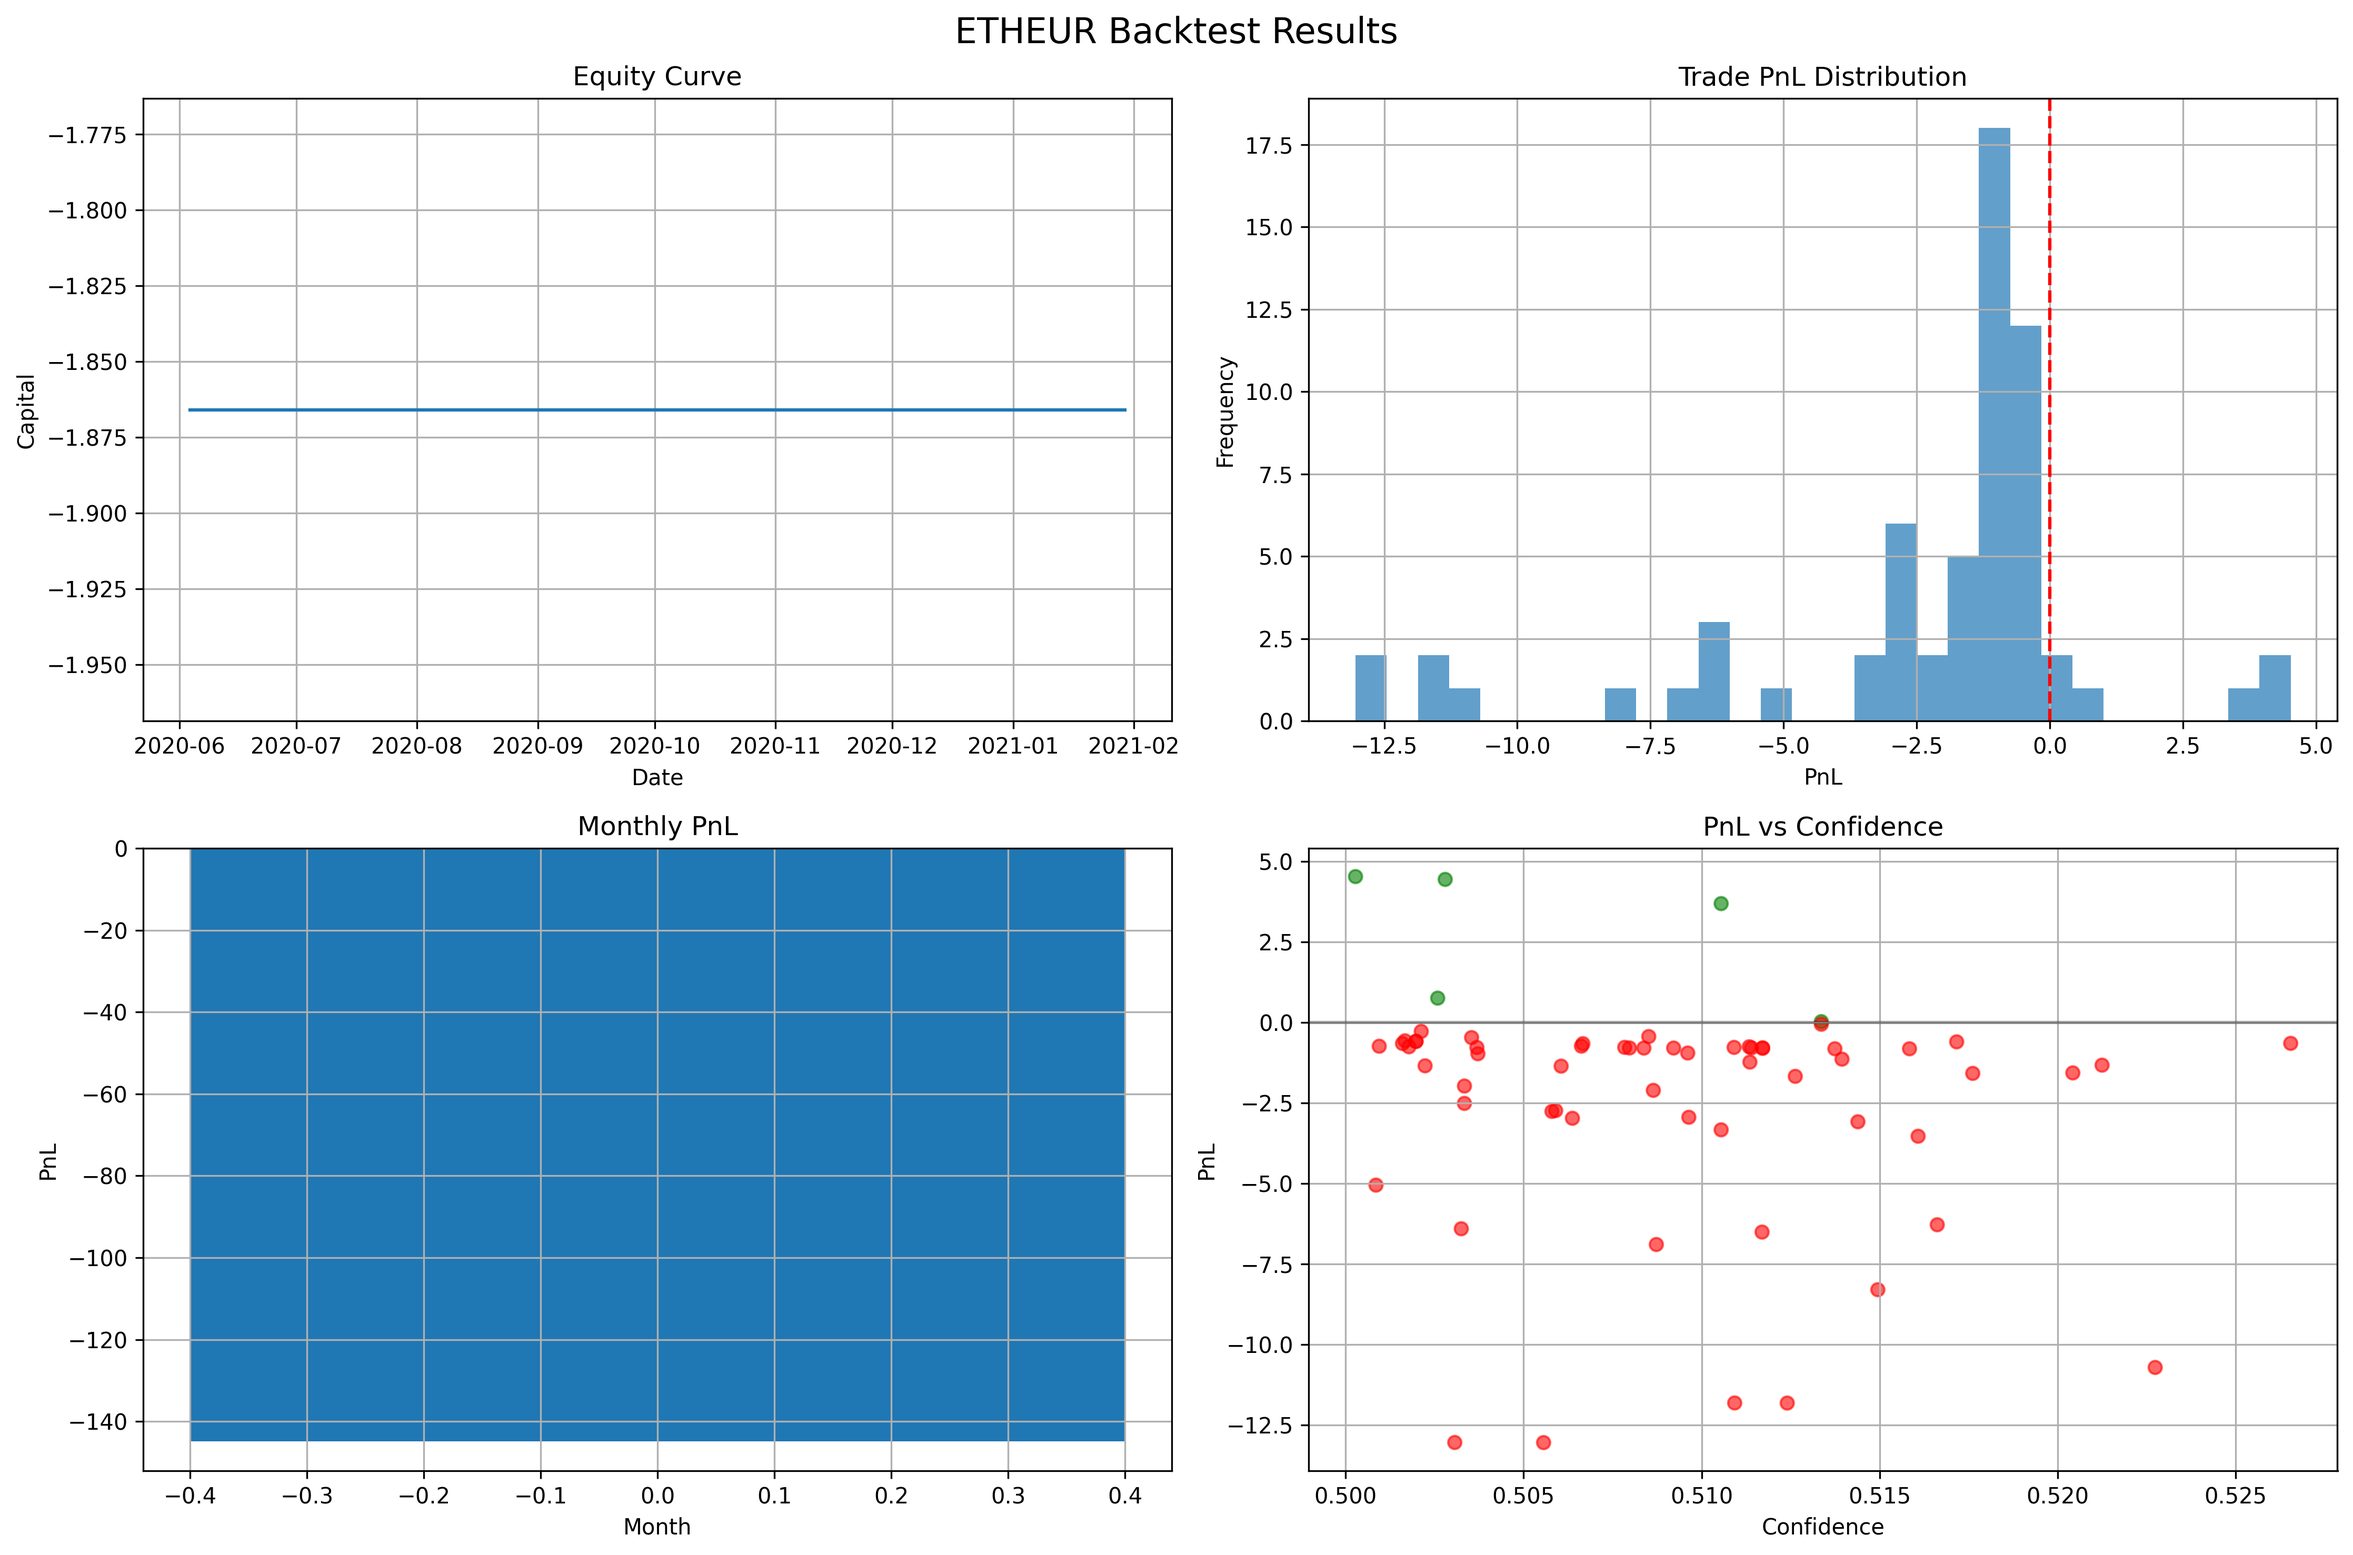
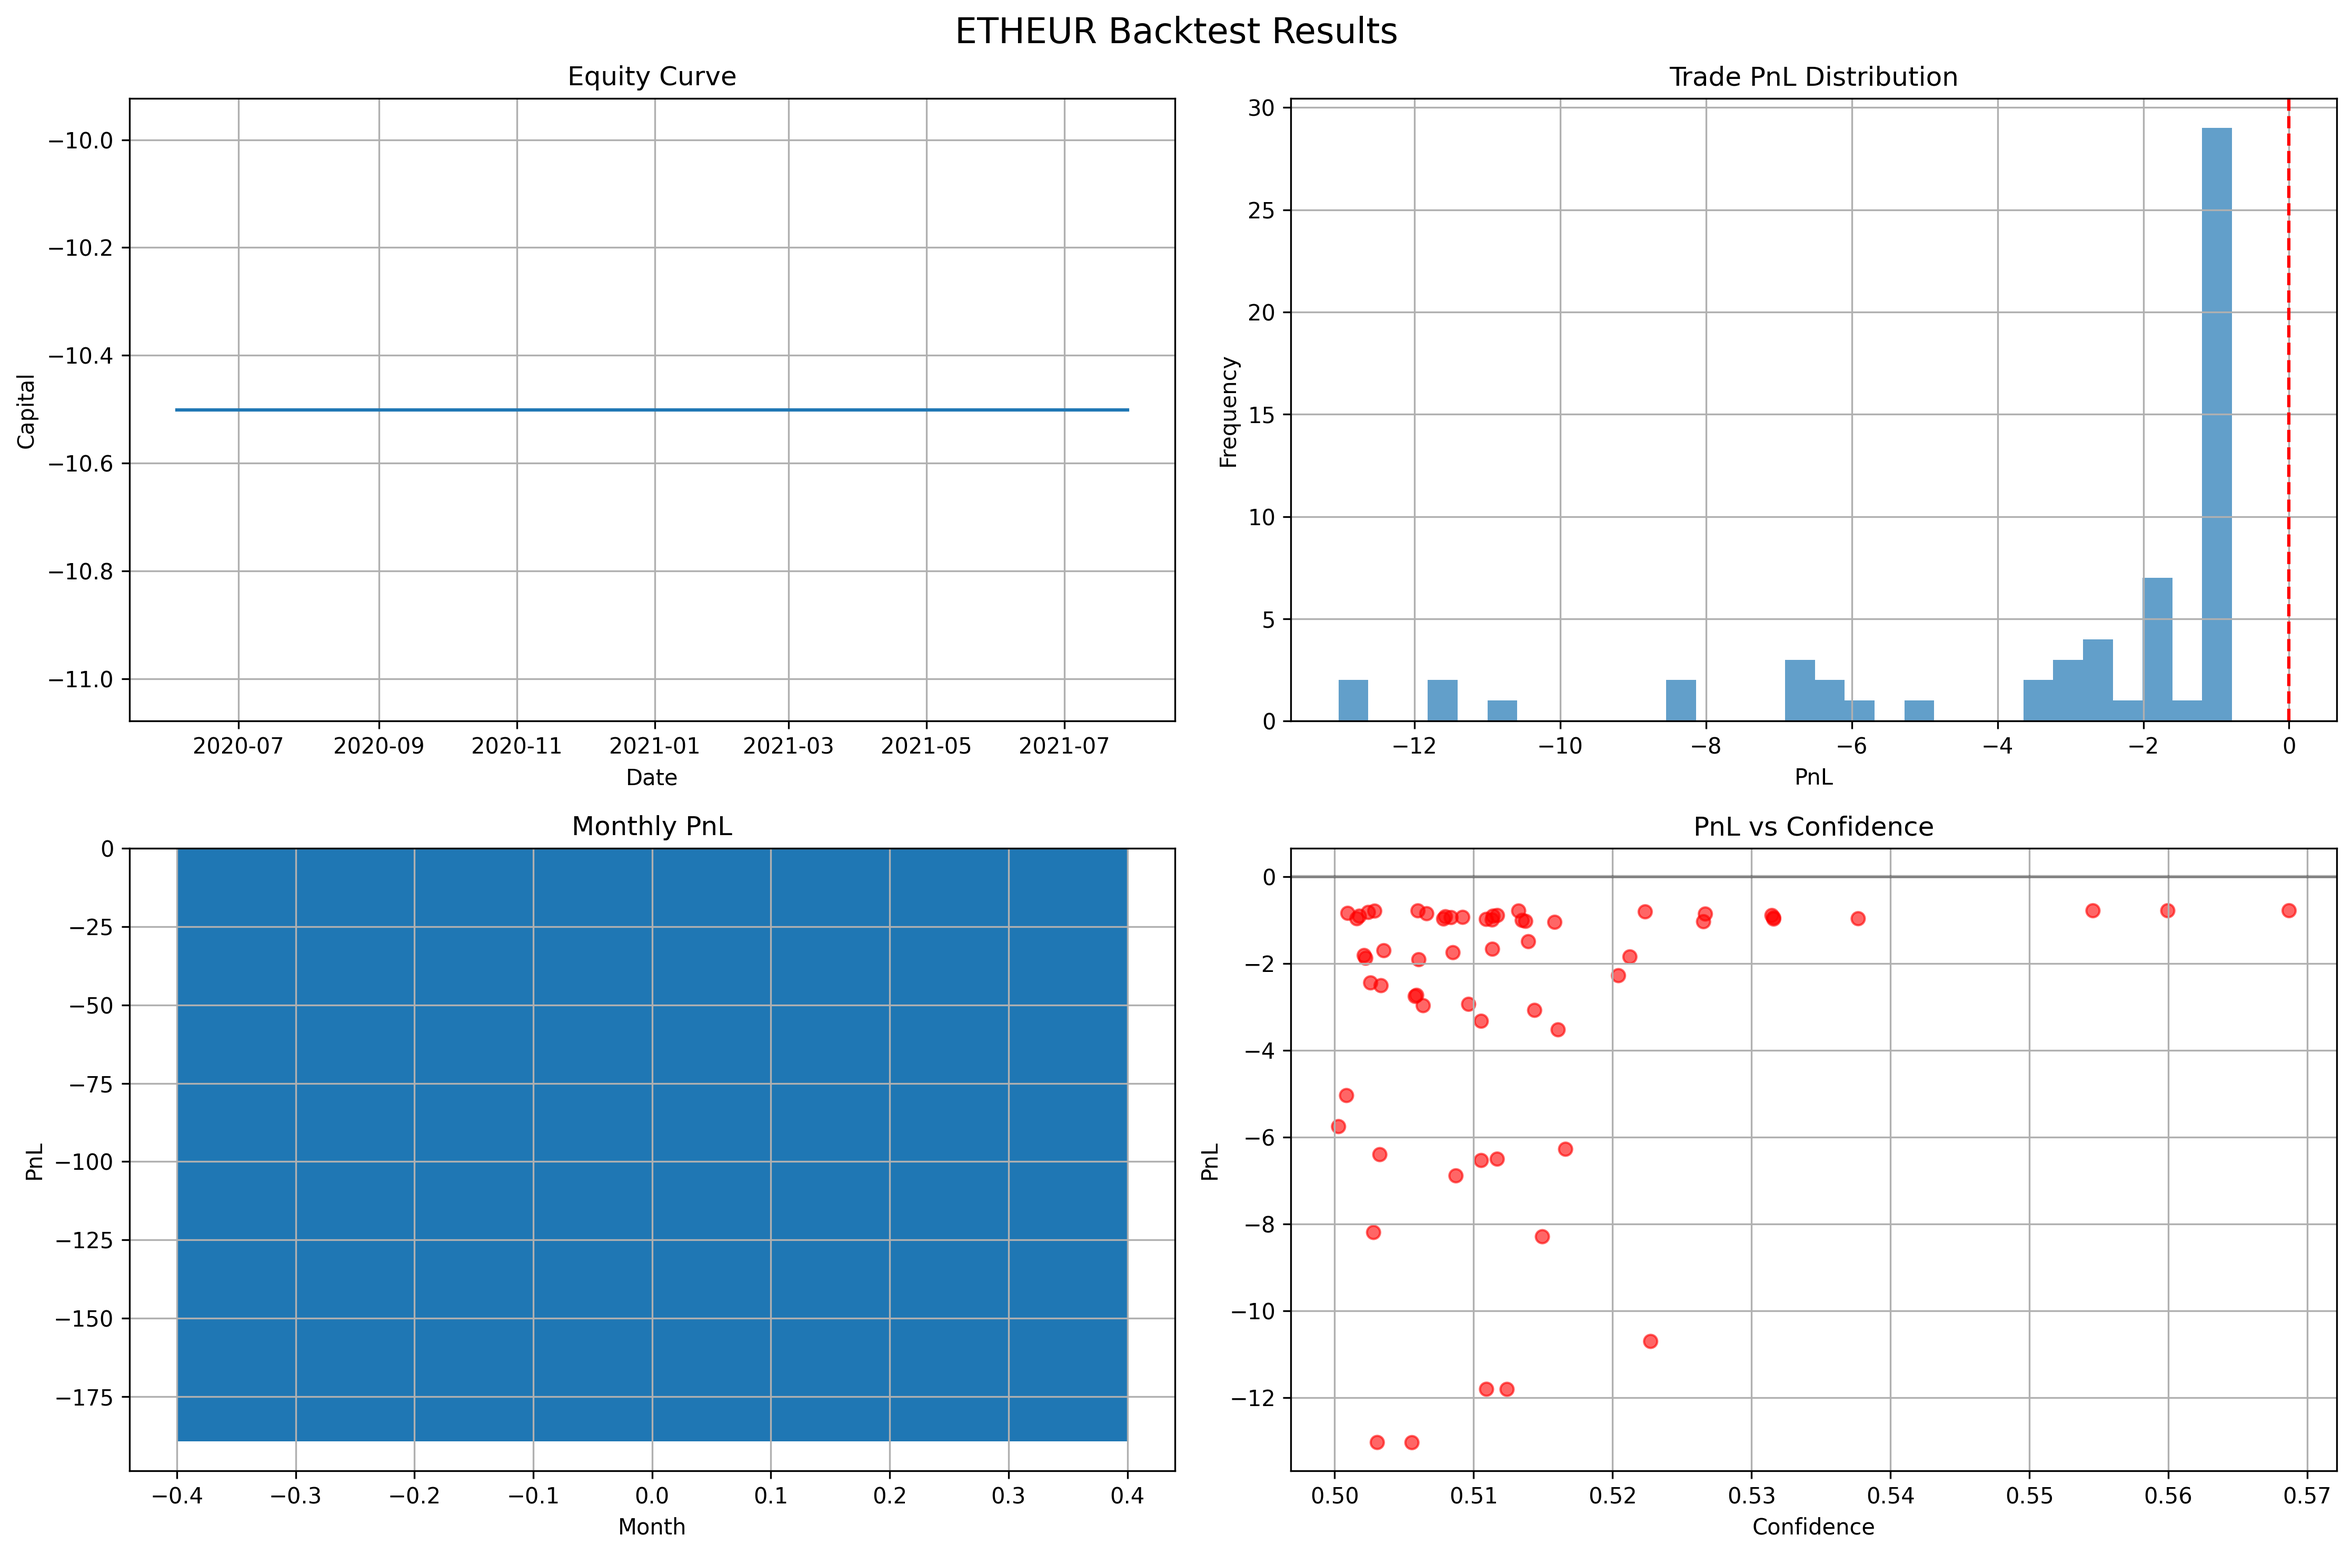
Fix optimized_variables.py: set profit_focused as default mode and fix 15-window selection

diff --git a/scripts/backtest_models.py b/scripts/backtest_models.py
@@ -1321,7 +1321,7 @@ class ModelBacktester:
         return None
 
     def _get_available_windows(self, symbol: str) -> List[int]:
-        """Get list of available window numbers for a symbol, limited to windows 2-15"""
+        """Get list of available window numbers for a symbol, limited to the 15 most recent windows"""
         import glob
         import re
         
@@ -1350,12 +1350,14 @@ class ModelBacktester:
                 print(f"    ⚠ No common windows found for {symbol}")
             return []
         
-        # Use specific windows 2-15 instead of last 15 windows
-        target_windows = list(range(2, 16))  # Windows 2-15
-        available_target_windows = [w for w in target_windows if w in common_windows]
+        # Use the 15 most recent windows available
+        if len(common_windows) >= 15:
+            available_target_windows = common_windows[-15:]  # Last 15 windows
+        else:
+            available_target_windows = common_windows  # All available windows if less than 15
         
         if self.config.verbose:
-            print(f"    📊 Available windows for {symbol}: {len(common_windows)} total, using windows 2-15: {available_target_windows}")
+            print(f"    📊 Available windows for {symbol}: {len(common_windows)} total, using 15 most recent: {available_target_windows}")
         
         return available_target_windows
     

diff --git a/paper_trader/models/model_loader.py b/paper_trader/models/model_loader.py
@@ -566,18 +566,21 @@ class WindowBasedModelLoader:
         return status
     
     def get_optimal_window(self, symbol: str, market_volatility: float, trend_strength: float) -> Optional[int]:
-        """Select optimal window based on market conditions."""
+        """Select optimal window based on market conditions from the 15 most recent windows."""
         if symbol not in self.available_windows or not self.available_windows[symbol]:
             return None
 
         windows = sorted(self.available_windows[symbol])
 
+        # For high volatility, use the most recent windows (last 5)
         if market_volatility > 0.7:
             return max(windows[-5:])
+        # For strong trends, use a window from the more recent ones
         elif trend_strength > 0.6 and len(windows) >= 10:
             return windows[-10]
+        # Default: use the most recent window available
         else:
-            return windows[-15] if len(windows) >= 15 else windows[-1]
+            return windows[-1] if windows else None
     
     def get_available_models(self, symbol: str, window: int) -> Dict[str, bool]:
         """Check which models are available for a specific symbol and window."""

diff --git a/validate_fixes.py b/validate_fixes.py
@@ -12,7 +12,7 @@ import warnings
 warnings.filterwarnings('ignore')
 
 def test_window_selection():
-    """Test that first 15 windows are now being used"""
+    """Test that the 15 most recent windows are now being used"""
     print("=== Testing Window Selection ===")
     
     config = BacktestConfig()
@@ -26,12 +26,12 @@ def test_window_selection():
     print(f"Using first window: {available_windows[0]}")
     print(f"Using last window: {available_windows[-1]}")
     
-    # Verify these are the first 15 windows (should be 3-17)
-    expected_first_15 = list(range(3, 18))  # 3, 4, 5, ..., 17
+    # Verify these are the 15 most recent windows (should be 1-15)
+    expected_first_15 = list(range(1, 16))  # 1, 2, 3, ..., 15
     actual_first_15 = available_windows[:15] if len(available_windows) >= 15 else available_windows
     
     if actual_first_15 == expected_first_15:
-        print("✅ PASS: Using first 15 windows as expected (3-17)")
+        print("✅ PASS: Using 15 most recent windows as expected (1-15)")
     else:
         print(f"❌ FAIL: Expected {expected_first_15}, got {actual_first_15}")
     

diff --git a/optimized_variables.py b/optimized_variables.py
@@ -1005,8 +1005,8 @@ Examples:
                        help='Optimization method (default: bayesian)')
     
     parser.add_argument('--mode', choices=['conservative', 'balanced', 'aggressive', 'profit_focused', 'high_frequency'],
-                       default='high_frequency',
-                       help='Optimization mode determining parameter ranges (default: high_frequency)')
+                       default='profit_focused',
+                       help='Optimization mode determining parameter ranges (default: profit_focused)')
     
     parser.add_argument('--objective', choices=['sharpe_ratio', 'total_return', 'calmar_ratio', 'profit_factor'],
                        default='profit_factor',
